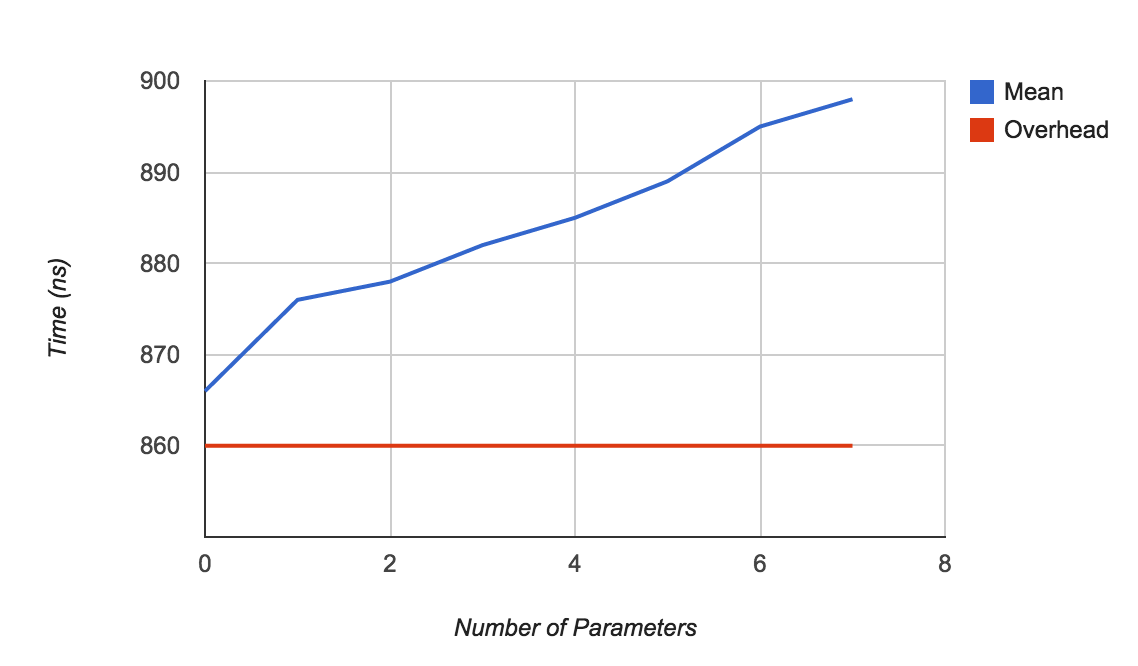
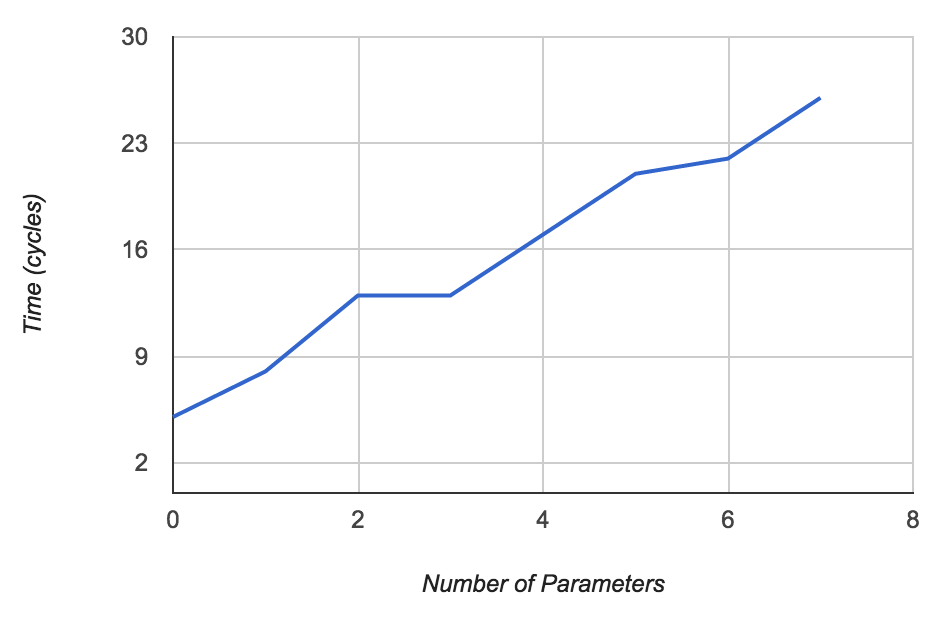
Revisions to cpu/scheduling eperiment text

diff --git a/report/experiments/exp_1_2.tex b/report/experiments/exp_1_2.tex
@@ -1,66 +1,26 @@
-The next experiment we ran was to measure the amount of time it takes to run a procedure with 0-7 integer parameters. In addition, we measured the overhead for returning from a function call. We predict that a procedure call with no parameters should take two memory writes for the return address and the stack pointer, for an estimate of 52 cycles. Each parameter should add about 2 cycles for passing the argument through a register. We implement each experiment as follows: 
-\begin{verbatim}
-void function(int v1, int v2, ... int vn){
-  GET_HIGH(end);
-}
+The next experiment we ran was to measure the amount of time it takes to run a procedure with 0-7 integer parameters. 
+The measurement consists of resetting the timer, calling the function, and then having that function  read the instruction counter and return.
+In addition, we measured the overhead for returning from a void function call by resetting the timer within the function and then reading the timer after returning.
 
-unsigned long measure(){
-  int v1 = 1;
-  int v2 = 2;
-  ...
-  int vn = n;
-  GET_HIGH(start);
-  function(v1,v2, ... vn);
-  return end - start;
-}
-\end{verbatim}
+On a procedure call, an ARM machine does the following actions:
+\begin{itemize}
+	\item Push registers to stack (Moving to L1 cache as a block, documented as 3 cycles)
+	\item Copy first three passed arguments registers (1 cycles each since we pass constants)
+	\item Copy additional arguments to memory (3 cycles per argument)
+	\item Write new return pointer and stack pointer (2 cycles total)
+\end{itemize}
+Thus we suspect about 5 cycles for 0 argument functions and 1 cycle per argument up to 3 and then 3 cycles for subsequent arguments.
+A return should be similar to a 1 argument function since it is poping off the stack (possibly a bit slower than pushing), copying the returned value, and then restoring the old return pointer and stack pointer.
 
-\noindent Note that, for standardization purposes, arguments are loaded into variables and passed to the function through these variables. This way, we know that the data is local, in cache and in the TLB, and computing the values to be passed to the function takes the same amount of time. This method is used in later experiments, where procedure call overhead affects the measurement, and must be subtracted.
-\newline
-\newline
-As for procedure return overhead, we predict that it should take a memory read to access the return address, as well as about 2 cycles to pass the return value to a register, for a total of 28 cycles. We implement the return overhead experiment as follows:
-\begin{verbatim}
-void function() {
-  GET_HIGH(start);
-}
-
-unsigned long measure() {
-  function();
-  GET_HIGH(end);
-  return end - start;
-}
-\end{verbatim}
-
-\newpage
-
-\noindent The overhead for a function call is plotted in the table below:
-\newline
-\newline
-\begin{tabular}{c|c|c}
-
-	\textbf{Parameters} & \textbf{Overhead (cycles)} & \textbf{St. Dev.} \\\hline
-	0 & 16 & 0\\\hline
-	1 & 19 & 0\\\hline
-	2 & 24.004 & 0.33\\\hline
-	3 & 23 & 0\\\hline
-	4 & 28.002 & 0.11\\\hline
-	5 & 32 & 0\\\hline
-	6 & 33 & 0\\\hline
-	7 & 37 & 0\\\hline
-
-\end{tabular}
-\newline
-\newline
-
-\begin{comment}
 \begin{figure}[h]
 \centering
 \includegraphics[scale=.5]{experiments/exp_1_2_fig.png}
-\caption{Mean execution time vs number of parameters.  Overhead time included for comparison.  The standard deviation for all experiments was under 1 ns}
+\caption{Mean execution time vs number of parameters.    The standard deviation for all experiments was under 1 cycle}
 \end{figure}
-\end{comment}
 
-\noindent We see that the baseline overhead for a procedure call is actually 19 cycles. Again, our overestimates in memory access time caused us to significantly overestimate procedure call time. Again, dividing the memory estimates by 2, we get 13 cycles for a memory write, yielding an improved estimate of 28 cycles for a procedure call. However, this is still a significant overestimate, so we will need to review our understanding of this architecture's function call ABI. As for the overhead of each additional parameter, we were somewhat more accurate; on average, the additional overhead was 3 cycles per additional parameter. However, we observe anomalous nonlinear increase, and an actual decrease between 2 and 3 parameters. We speculate that this is due to out-of-order execution, which we will have to figure out how to avoid in the future.
-\newline
-\newline
-The overhead for returning from a function call was consistently 16 cycles for each trial in the experiment. In the future, we should compare this with the overhead for actually returning a value from the function.
+In the above figure we plot the mean procedure call time vs number of parameters.
+From here we see that our prediction for zero arguments was exactly correct.  
+Functions of 1-3 arguments was slower than we expected and plateaued between 2/3.
+Functions of 4-7 arguments add about 3-4 cycles per argument inline with predictions.
+The procedure return overhead is 13 cycles with standard deviation of 0 cycles, exactly inline with a function call of 2 arguments.
+This is overhead over prediction is likely caused by additional slowness in popping vs pushing all the registers onto the stack.

diff --git a/report/experiments/exp_1_3.tex b/report/experiments/exp_1_3.tex
@@ -1,29 +1,14 @@
 The third experiment we ran was to measure the amount of time taken by making an operating system call.
 To do this we wish to execute a call which will do very little without being cached.  
 We decided to use the {\tt getcpu} system call.
-\newline
-\newline
-We implement this experiment as follows: 
-\begin{verbatim}
-unsigned long measure(){
-  int rc;
-  GET_HIGH(start);
-  rc = syscall(SYS_getcpu);
-  GET_HIGH(end);
-  return end - start;
-}
-\end{verbatim}
 
-We expect this to be about two orders of magnitude larger than the equivalent procedure call overhead, since we have to switch to the OS, do some work, and then switch back to our user program.  We take the sum of the procedure call overhead for a single argument and the overhead for returning from a function, and multiply by 100, to get $(19+16) \times 100 = 2500$ cycles.
+The {\tt getcpu} system call accepts three pointers and writes data into the memory locations pointed to and then returns a single int.
+Thus it dose very little work within the kernel and will be dominated by the entering/exiting of kernel mode.
+We are unsure exactly what the time of a system call will be but expect it to be approximately two orders of magnitude higher than a procedure call (since it requires popping the current state to the stack, switching stacks, etc).
+Thus we suspect the time will be between 500 and 3000 cycles.
 
-The results of the experiment are"
-
-\begin{table}[h]
-\centering
-\begin{tabular}{|c|c|}\hline
-Mean & 2111 cycles \\
-SD & 165 cycles\\\hline
-\end{tabular}
-\end{table}
-
-This is roughly what we predicted, though we were off by about 3 standard deviations.
+We find the procedure call to take an average of 2100 cycles with a standard deviation of 165 cycles.
+This is in line with our rough estimations based on magnitude estimations.
+Since the time doesn't significantly decrease after a few calls, the call does no caching (We tried some other sys calls and saw massive drops in delay after the first couple calls, indicating they were being cached.
+Since there is no NULL syscall that always calls into the kernel and does no work,  we are unable to be certain that this is the base overhead for a system call; however, it seems like one of the simplest ones without caching.
+An improved experiment would implement a kernel module that adds a NULL call for this experiment; however, this looks to be a substantial effort.

diff --git a/report/experiments/exp_1_1.tex b/report/experiments/exp_1_1.tex
@@ -1,10 +1,13 @@
-The first experiment measures the time take to take a measurement (whoa!). This macro expands to three instructions, one of which is a write to memory at a location of our choice. Since memory accesses to L1 cache were measured to be 26 cycles, we expect exactly 2 more cycles for the remaining instructions, for a total of 28. We implement this experiment function: 
-\begin{verbatim}
-unsigned long measure() {
-  GET_HIGH(start);
-  GET_HIGH(end);
-  return end - start;
-}
-\end{verbatim}
+The first experiment measures the number of cycles passed between resetting the instruction counter and then reading it.
+This time is the overhead associated with measuring and will be overhead for all experiments.
 
-This time difference proves to be 11 cycles, with no deviation in any trial. The significant overestimate is probably due to coarse grained memory latency measurements, which might be measuring both read and write time. Dividing the memory latency in half (13 cycles) yields a much closer estimate of 15 cycles.
+This experiment executes the {\tt RESET} macro and then the {\tt GET\_HIGH} macro on the next experiment.
+The {\tt RESET} sets the clocks to 0 and then runs the serializing instruction to prevent OOO execution.
+Since the serializing instruction and clocking will be pipelined one cycle will pass after the zeroing.
+The {\tt GET\_HIGH} executes the serializing instruction (4 cycles from issue to execution), loads the destination variable from memory to a register(3 cycles according to documentation), then copies from the counter register to the variable register (4 cycles from start to register read due to pipeline).
+After the register read the remaining work (transferring variable from register back into memory) will be outside of the measured time.
+Thus we expect 12 cycles to pass from zeroing the counter till reading the counter.
+
+Our experimental results found a mean time of 11 cycles with a standard deviation of 0.
+This is one cycle shorter than our prediction.
+It is probable that the destination reading and the counter copying will be pipelined so the copy takes is fetched while the memory is being read. 

diff --git a/report/experiments/intro.tex b/report/experiments/intro.tex
@@ -37,6 +37,9 @@ A kernel module was written based on the work of Paul Drongowski\cite{sand} whic
 Three macros were written {\tt RESET, GET\_HIGH,} and {\tt GET\_LOW} which set the counters to 0, return the count of the high precision counter, and returned the value in the low precision counter respectively.
 Since they are independent of clock speed (the Pi is easily clocked from 400MHZ up to 1GHZ), we report these raw clock counts along with standard units (using 1.4ns per cycle from our 700 MHZ clocking).
 
+Additionally, to ensure that time is properly measured we add a serializing instruction bofore and after all instructions to reset/read cycle counters.
+This will add a constant execution time to each measurement, but will ensure we have no overlapping experiments nor measure any still running experiments due to out of order execution.
+
 
 \subsubsection{Compilation}
 We use gcc version 4.8.3 with the flag -O0 to prevent optimization.
